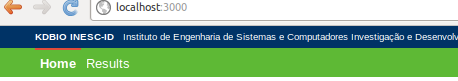
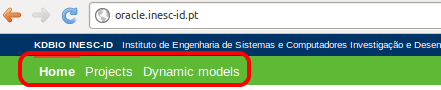
starts moving some hints to locale file, hides default experiment when it is empty, optimizes mathjax

diff --git a/config/navigation.rb b/config/navigation.rb
@@ -51,8 +51,8 @@ SimpleNavigation::Configuration.run do |navigation|
     #
     primary.dom_class = 'menu'
     primary.item :home, 'Home', root_path
-    primary.item :models, 'Projects', models_path , :highlights_on => /^.*\/(projects|experiments|measurements|proxy_dyna_models)/
-    primary.item :dyna_models, 'Dynamic models', dyna_models_path , :highlights_on => /^.*\/dyna_models/
+    primary.item :models, Model.model_name.human.pluralize, models_path , :highlights_on => /^.*\/(projects|experiments|measurements|proxy_dyna_models)/
+    primary.item :dyna_models, DynaModel.model_name.human.pluralize, dyna_models_path , :highlights_on => /^.*\/dyna_models/
 
     # Add an item which has a sub navigation (same params, but with block)
     ##primary.item :key_2, 'name', url, options do |sub_nav|

diff --git a/app/controllers/models_controller.rb b/app/controllers/models_controller.rb
@@ -24,7 +24,7 @@ class ModelsController < ApplicationController
   # GET /models/1.json
   def show
     @model = Model.find(params[:id])
-    @experiments = @model.experiments.page(params[:page])
+    @experiments = @model.experiments.trim.page(params[:page])
     @measurements = Measurement.model_is(@model).custom_sort.page(params[:m_page]).per(10)
     @accessibles = @model.accessibles
     #
@@ -46,6 +46,7 @@ class ModelsController < ApplicationController
     exp_title ||= t('experiments.default.title') 
     @experiment = @model.experiments.find_or_create_by_title(exp_title)
     @experiment.description = t('experiments.default.description')
+    @experiment.default = true
     @experiment.save
     @measurement = @experiment.measurements.build
     respond_with @measurement

diff --git a/app/models/experiment.rb b/app/models/experiment.rb
@@ -6,6 +6,9 @@ class Experiment < ActiveRecord::Base
   
   accepts_nested_attributes_for :measurements
   
+  scope :trim, lambda { includes(:measurements).where( Experiment.arel_table[:default].eq(nil).or(Experiment.arel_table[:default].eq(false))
+    .or(Experiment.arel_table[:default].eq(true).and(Measurement.arel_table[:id].not_eq(nil))) ) }
+  
   scope :model_is, lambda { |model| where(:model_id=>model.id).order(:model_id) }
   scope :dyna_model_is, lambda { |dyna_model| joins(:measurements => :proxy_dyna_models).where(:measurements=>{:proxy_dyna_models=>{:dyna_model_id=>dyna_model.id}}).group('experiments.id').order(:model_id) }
   scope :viewable, lambda { |user| where( Experiment.arel_table[:model_id].in(  Model.viewable(user).map { |m| m.id } )) }

diff --git a/db/schema.rb b/db/schema.rb
@@ -11,7 +11,7 @@
 #
 # It's strongly recommended to check this file into your version control system.
 
-ActiveRecord::Schema.define(:version => 20121008154647) do
+ActiveRecord::Schema.define(:version => 20121009232758) do
 
   create_table "accessibles", :force => true do |t|
     t.integer  "permitable_id"
@@ -57,6 +57,7 @@ ActiveRecord::Schema.define(:version => 20121008154647) do
     t.datetime "created_at"
     t.datetime "updated_at"
     t.string   "title"
+    t.boolean  "default"
   end
 
   add_index "experiments", ["model_id"], :name => "index_experiments_on_model_id"

diff --git a/db/migrate/20121009232758_add_default_to_experiment.rb b/db/migrate/20121009232758_add_default_to_experiment.rb
@@ -1,0 +1,5 @@
+class AddDefaultToExperiment < ActiveRecord::Migration
+  def change
+    add_column :experiments, :default, :boolean
+  end
+end
